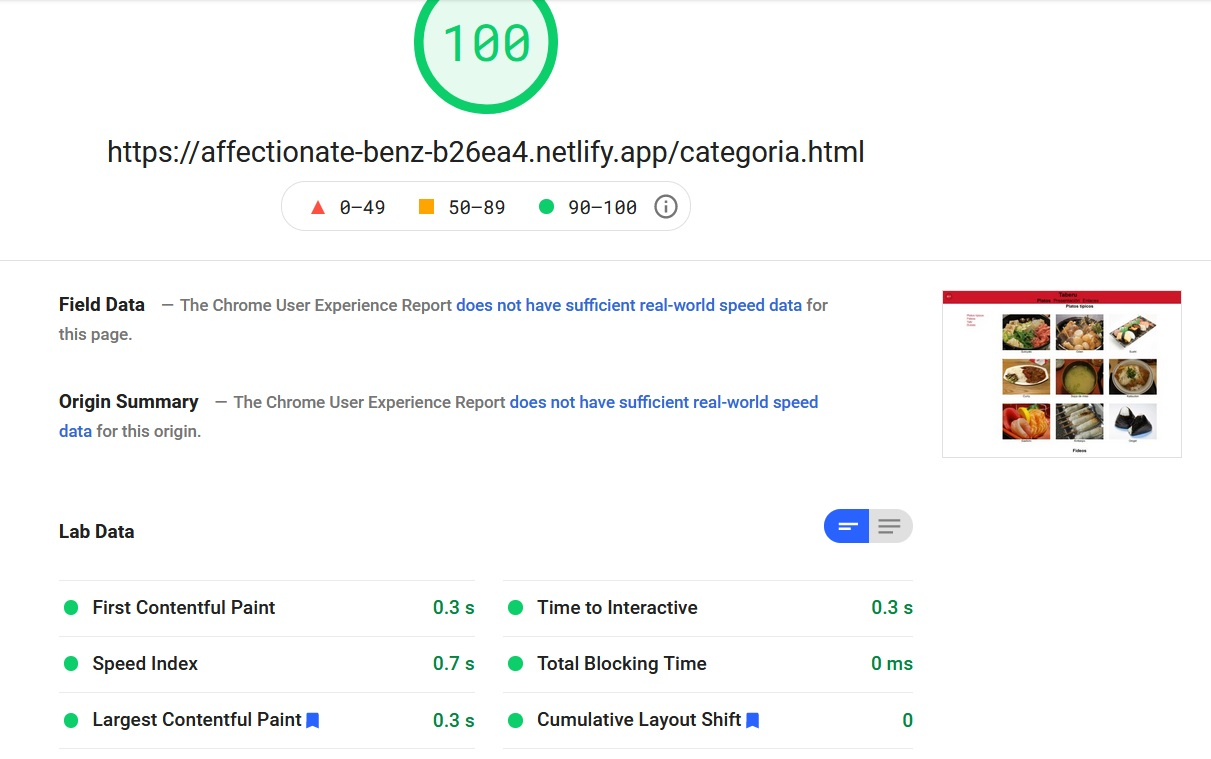
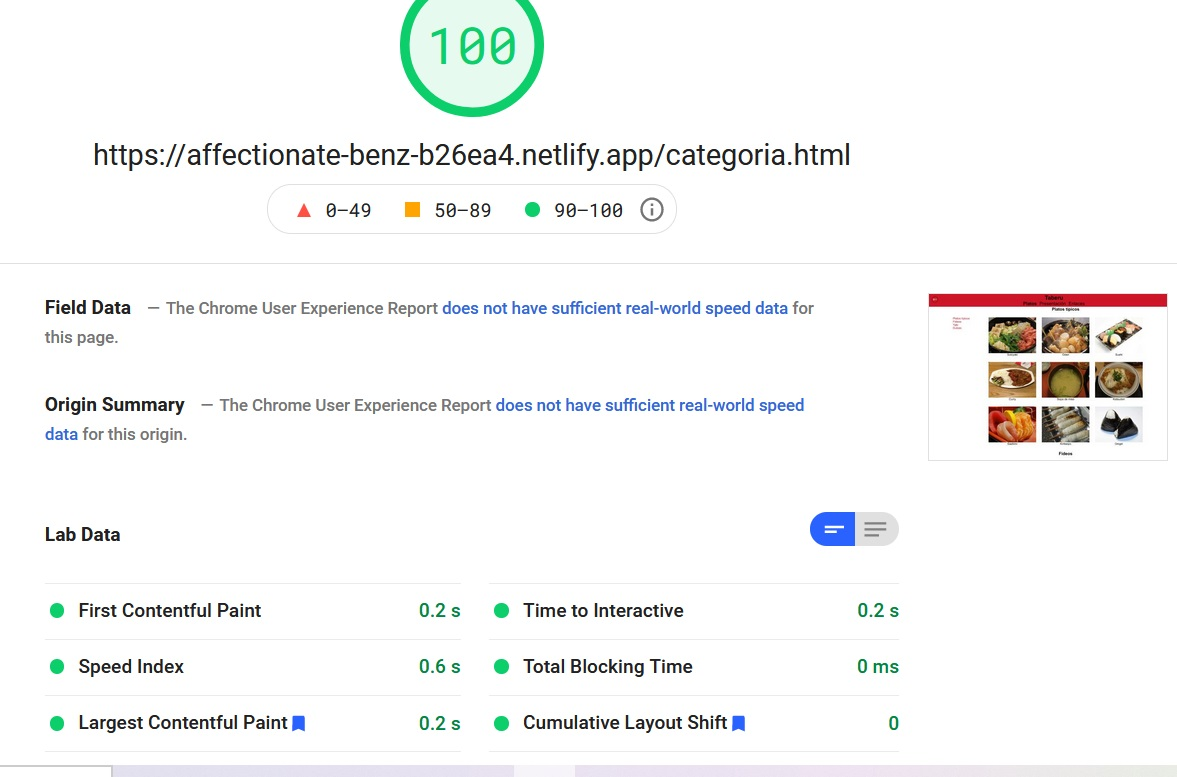
sizes

diff --git a/detalle.html b/detalle.html
@@ -29,9 +29,9 @@
             <article>
                 <h2>Historia del Curry/カレー</h2>
                 <picture loading="lazy">
-                    <source media="(max-width: 1024px)" srcset="img/curryreal2moviles.png">
-                    <source media="(min-width: 1025px)" srcset="img/curryreal2.png">
-                    <img loading="lazy" src="img/curryreal2.png" alt="Plato de curry">
+                    <source media="(max-width: 1024px)" srcset="img/curryreal2moviles.webp">
+                    <source media="(min-width: 1025px)" srcset="img/curryreal2.webp">
+                    <img loading="lazy" src="img/curryreal2.webp" alt="Plato de curry">
                 </picture>
                 <p>
                     A menos que estes familiarizado con la cultura japonesa, es muy posible que no te suene 
@@ -96,8 +96,8 @@
 
                 <figure id="otrasfigures">
                     <img loading="lazy" id="otrasimagenes"
-                    srcset="img/goldencurry1X.jpg 1x,  img/goldencurry1.5X.jpg 1.5x, img/goldencurry2X.jpg 2x"
-                    src="img/goldencurry1X.jpg"
+                    srcset="img/goldencurry1X.webp 1x,  img/goldencurry1.5X.webp 1.5x, img/goldencurry2X.webp 2x"
+                    src="img/goldencurry1X.webp"
                     alt="golden curry">
                 </figure>
                 <p>

diff --git a/presentacion.html b/presentacion.html
@@ -45,11 +45,10 @@
                 a la naturaleza”. A continuación dejo un vídeo(en inglés) de la UNESCO:
             </p>
             <div id="video-washoku">
-                <!--
+                
                 <figure id="video-facade" class="image-washoku">
                     <img loading="lazy" id="video-facade"  src="img/washoku.jpg">
                 </figure>
-                -->
             </div>
              
             <p>
@@ -63,11 +62,9 @@
                 japonesas y mediterráneas incluso ha inspirado una obra de teatro: El tigre de Yuzu
             </p>
             <div id="video-mibu">
-                <!--
                 <figure id="video-facade" class="image-mibu">
                     <img loading="lazy" id="video-facade"  src="img/mibu.jpg">
                 </figure>
-            -->
             </div>
             <p>
                 Por lo tanto, este portal te permitrá sumergirte en el mundo de la gastronomía japonesa, aprender

diff --git a/form.js b/form.js
@@ -8,7 +8,7 @@ const paraFormulario = (e) => {
 $formulario.addEventListener('submit', paraFormulario);
 
 //Se anyaden los videos
-
+/*
 const addVideo = (e, enlace) =>{
     const video = document.createElement("iframe");
     video.src = enlace;
@@ -24,8 +24,8 @@ window.addEventListener("load", (e) =>{
     addVideo($washoku, "https://www.youtube.com/embed/Xtnwt-Jq93E")
     addVideo($mibu, "https://www.youtube.com/embed/e2WvHxVqif4")
 });
+*/
 
-/*
 const addVideo = (e, elemento, enlace) =>{
     //document.removeChild(e);
     const video = document.createElement("iframe");
@@ -58,4 +58,3 @@ $facade2.addEventListener("mouseover", (e) =>{
     const $mibu = document.getElementById("video-mibu");
     addVideo(e.target, $mibu, "https://www.youtube.com/embed/e2WvHxVqif4")
 })
-*/

diff --git a/categoria.html b/categoria.html
@@ -325,7 +325,7 @@
         </nav>
         <p> <a href="about:blank"> Avisos y términos legales</a></p>
         <div class="containerflex">
-            <figure class="itemflex"><a href="about:blank" id="twit"> <img loading="lazy" src="img/twitter.svg" alt="Twitter"></a></figure>
+            <figure class="itemflex"><a href="about:blank"> <img loading="lazy" src="img/twitter.svg" alt="Twitter"></a></figure>
             <figure class="itemflex"><a href="about:blank"> <img loading="lazy" src="img/instagram.svg" alt="Instagram"></a></figure>
             <figure class="itemflex"><a href="about:blank"> <img loading="lazy" src="img/youtube2.svg" alt="Youtube"></a></figure>
         </div>
